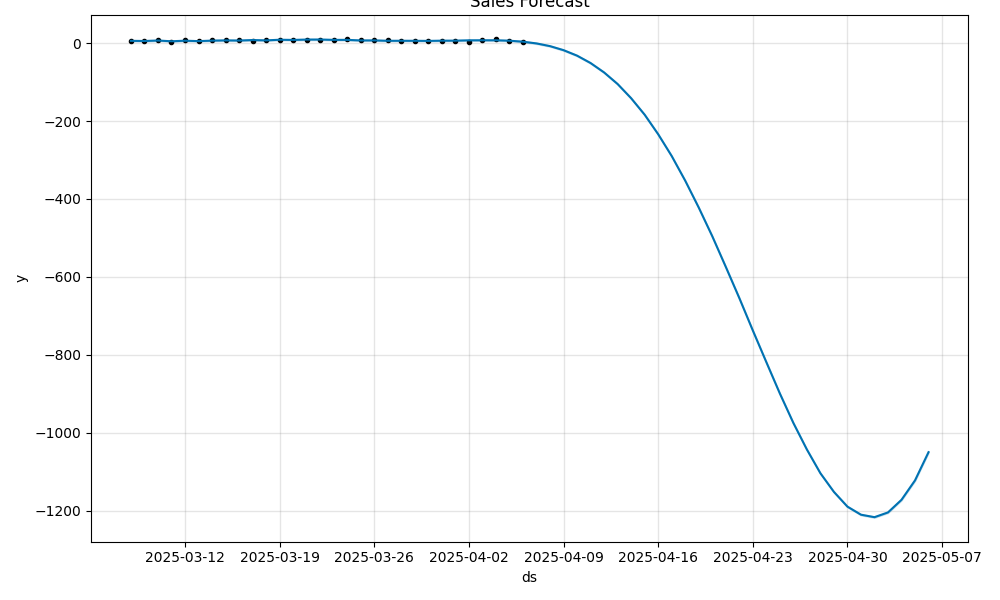
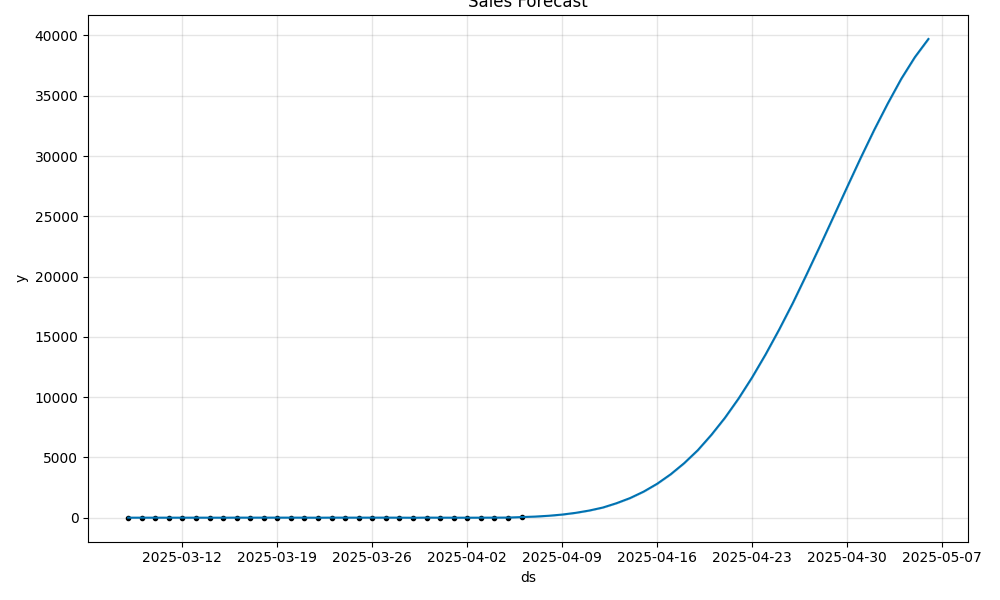
feat: enhance forecast display by adding product images in the admin view

diff --git a/frontend/src/views/admin/AdminHome.vue b/frontend/src/views/admin/AdminHome.vue
@@ -123,7 +123,19 @@
             </thead>
             <tbody>
               <tr v-for="(forecast, productId) in forecasts" :key="productId">
-                <td>{{ forecast.name }}</td>
+                <td>
+                  <div class="product-info">
+                    <img 
+                      :src="forecast.image || '/img/placeholder.jpg'" 
+                      :alt="forecast.name"
+                      class="product-thumbnail"
+                      @error="handleImageError"
+                    >
+                    <div class="product-details">
+                      <span class="product-name">{{ forecast.name }}</span>
+                    </div>
+                  </div>
+                </td>
                 <td>{{ forecast.current_sales }}</td>
                 <td>
                   {{ Math.round(getForecastedSales(forecast.forecast_data)) }}

diff --git a/backend/services/forecastService.py b/backend/services/forecastService.py
@@ -34,13 +34,14 @@ class ForecastService:
                     DATE(o.created_at) as date,
                     p.products_id,
                     p.name as product_name,
+                    p.image,  # Changed from p.image as product_image
                     SUM(oi.quantity) as daily_sales
                 FROM orders o
                 JOIN order_items oi ON o.order_id = oi.order_id
                 JOIN products p ON oi.product_id = p.products_id
                 WHERE o.status = 'paid'
                 AND o.created_at >= DATE_SUB(NOW(), INTERVAL 30 DAY)
-                GROUP BY DATE(o.created_at), p.products_id, p.name
+                GROUP BY DATE(o.created_at), p.products_id, p.name, p.image
                 HAVING SUM(oi.quantity) > 0
                 ORDER BY date
             """
@@ -139,6 +140,7 @@ class ForecastService:
                     if forecast_data:
                         forecasts[str(idx)] = {
                             'name': product['product_name'],
+                            'image': product_sales['image'].iloc[0],  # Changed from product['product_image']
                             'current_sales': int(product['daily_sales']),
                             'forecast_data': forecast_data
                         }
